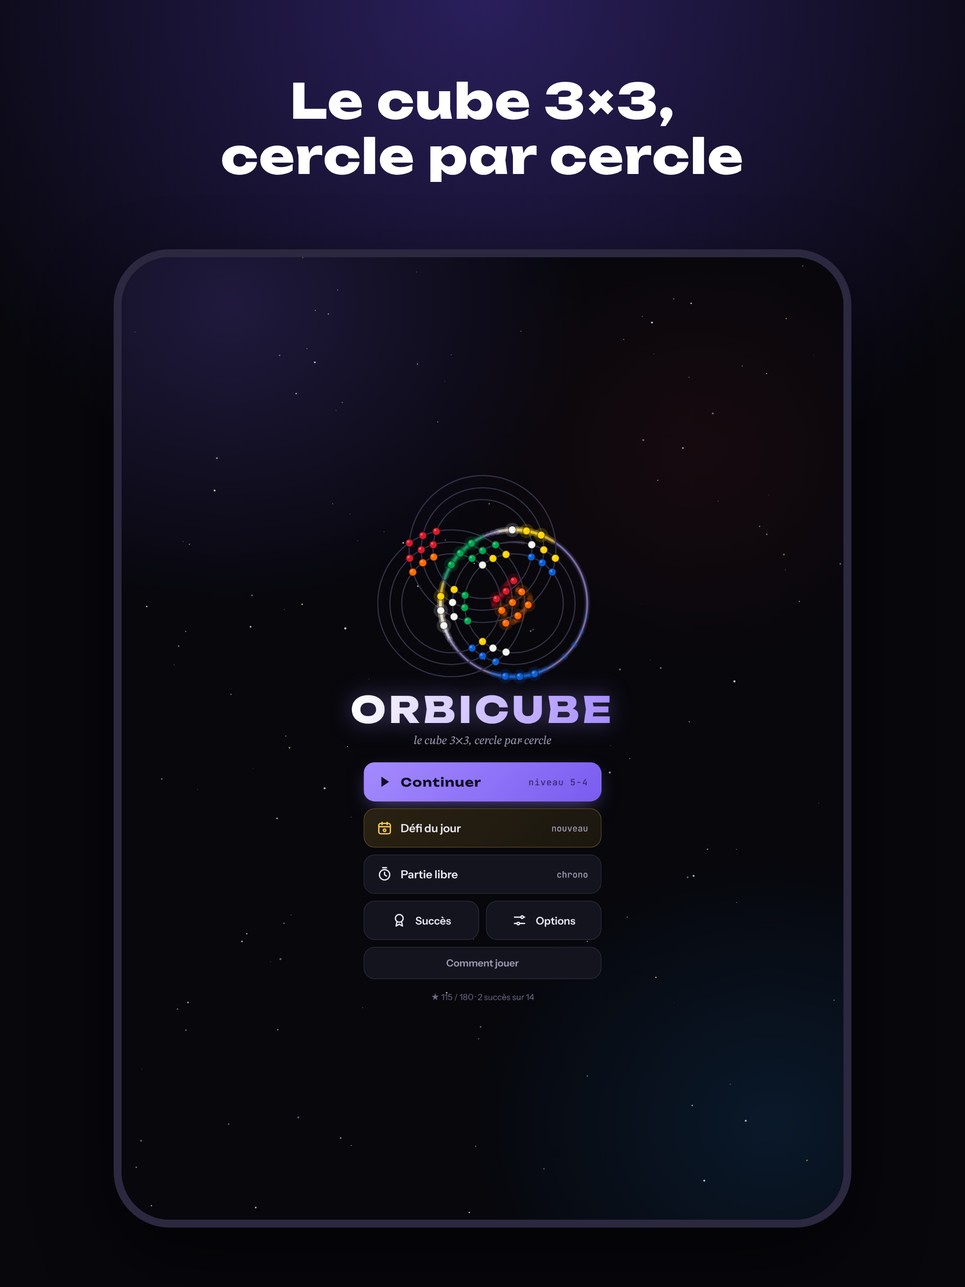
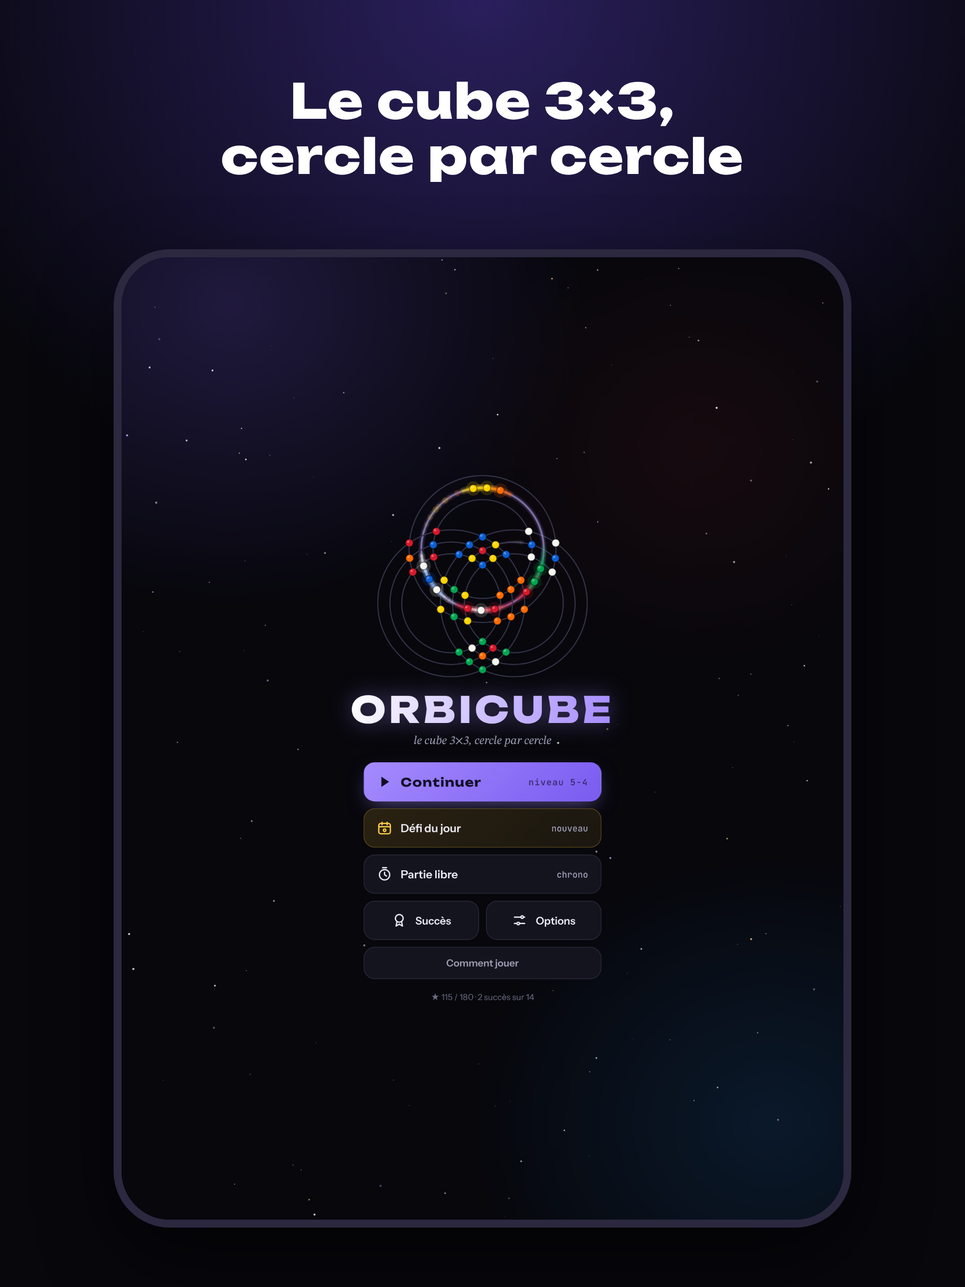
Seul le plateau se manipule, et seulement en glissant
Un simple appui sur un cercle le tournait d'un quart de tour, toujours dans le même sens : il ne
fait plus rien, le sens se choisit en glissant. L'option « Toucher : sens horaire » et son aide
disparaissent, le conseil du niveau 1-2 explique le glisser. Le cube en perspective redevient une
image fixe qui suit les tours. Le parcours de test vérifie qu'un appui ne compte aucun coup
(éprouvé : il échoue sur la version précédente).

Claude-Session: https://claude.ai/code/session_0149xvqQAFsWoXJkF64USQEK

Changed region(s): [[0.4341, 0.375, 0.6202, 0.5312]]

diff --git a/orbicube/www/index.html b/orbicube/www/index.html
@@ -162,7 +162,7 @@ a.bouton{text-decoration:none;color:inherit}
 /* le cube en perspective trône au centre, entre les coups et le temps, comme dans la visualisation de
    référence : sa taille (--cube) est la hauteur que le plateau laisse, calculée par redimJeu() */
 .jcube{display:grid;justify-items:center;gap:0;min-width:0;padding-top:14px}
-#mini{width:var(--cube,96px);height:var(--cube,96px);display:block;cursor:grab;touch-action:none}#mini:active{cursor:grabbing}
+#mini{width:var(--cube,96px);height:var(--cube,96px);display:block;pointer-events:none}
 .jinfo .stat{align-self:start;padding-top:6px}.jinfo .jetoiles{margin-top:8px}.jinfo .jetoiles svg{width:18px;height:18px}
 .coupgeant{position:absolute;right:14px;top:4px;font-family:var(--f-math);font-size:44px;color:var(--lilas);line-height:1;pointer-events:none;text-shadow:0 0 24px rgba(165,139,255,.5)}
 .fenetre{animation:pop .45s cubic-bezier(.3,1.4,.5,1)!important}
@@ -344,7 +344,7 @@ a.bouton{text-decoration:none;color:inherit}
     </div>
     <div class="jinfo">
       <div class="stat">Coups<b id="jCoups">0</b><div class="jetoiles" id="jEt" aria-label="Étoiles possibles"></div></div>
-      <div class="jcube"><canvas id="mini" aria-label="Cube en perspective, glissez pour le faire pivoter"></canvas></div>
+      <div class="jcube"><canvas id="mini" aria-label="Cube en perspective"></canvas></div>
       <div class="stat d">Temps<b id="jTemps">0:00</b></div>
     </div>
     <div class="plateau" id="zonePlateau">
@@ -385,12 +385,10 @@ a.bouton{text-decoration:none;color:inherit}
           <div class="segment" id="optVitesse"><button type="button" data-v="1.5">Lente</button><button type="button" data-v="1">Normale</button><button type="button" data-v="0.6">Rapide</button></div></div>
         <div class="ligne empile"><div class="lt"><b>Couleurs</b><span>« Contraste » suit une palette lisible par les daltoniens.</span></div>
           <div class="segment" id="optPalette"><button type="button" data-v="classique">Classique</button><button type="button" data-v="contraste">Contraste</button></div></div>
-        <div class="ligne"><div class="lt"><b>Cube en perspective</b><span>Au-dessus du plateau : glissez-le pour le faire pivoter.</span></div>
+        <div class="ligne"><div class="lt"><b>Cube en perspective</b><span>Au-dessus du plateau, il suit chaque tour.</span></div>
           <label class="interrupteur"><input type="checkbox" id="optCube" role="switch" aria-label="Cube en perspective"><i></i></label></div>
         <div class="ligne"><div class="lt"><b>Pavé de notation</b><span>Des boutons U, R′… sous le plateau.</span></div>
           <label class="interrupteur"><input type="checkbox" id="optPave" role="switch" aria-label="Pavé de notation"><i></i></label></div>
-        <div class="ligne"><div class="lt"><b>Toucher : sens horaire</b><span>Un toucher sans glisser tourne dans le sens des aiguilles. Désactivé : sens inverse.</span></div>
-          <label class="interrupteur"><input type="checkbox" id="optSens" role="switch" aria-label="Toucher dans le sens horaire"><i></i></label></div>
       </div>
       <div class="groupe" id="grpAchat"><h4>Achat</h4>
         <div class="ligne"><div class="lt"><b>Orbicube complet</b><span id="achatEtat">Les 6 mondes, toute la partie libre.</span></div>
@@ -438,8 +436,6 @@ a.bouton{text-decoration:none;color:inherit}
       <div class="aide-carte">
         <h3>Les gestes</h3>
         <p data-html="aide-glisser"><b>Glisser</b> le long d’un cercle le tourne dans le sens du doigt. Lâchez tôt et il revient en place.</p>
-        <p data-html="aide-toucher"><b>Toucher</b> un cercle le tourne d’un quart de tour, dans le sens horaire (réglable dans les options).</p>
-        <p data-html="aide-vue"><b>Glisser le cube</b> au-dessus du plateau le fait pivoter : à gauche ou à droite pour en faire le tour, vers le haut ou le bas pour voir la face du dessous.</p>
       </div>
       <div class="aide-carte">
         <h3>Gagner des étoiles</h3>
@@ -789,7 +785,7 @@ function ouvrirMonde(w){var M=MONDES[w];document.getElementById("nivTitre").text
 /* ========== 11. LA PARTIE ========== */
 var JeuP=new Plateau(document.getElementById("plateau"),{eclats:true});Ticker.actifs.push(JeuP);
 JeuP.onFace=function(n){if(!J||!J.pret||J.fini)return;bip(1047,.28,"sine",.07);bip(1568,.32,"sine",.05,.07);vibrer(12);};
-var mini=document.getElementById("mini"),miniC=mini.getContext("2d"),PIVOT={y:0,x:0},J=null;
+var mini=document.getElementById("mini"),miniC=mini.getContext("2d"),PIVOT=null,J=null;
 function dessinerMini(){if(!PROG.options.cube)return;var w=mini.clientWidth||84,px=Math.round(w*DPR);if(mini.width!==px){mini.width=px;mini.height=px;miniC.setTransform(DPR,0,0,DPR,0,0);}
   dessinerCube(miniC,w,JeuP.col,JeuP.anim,PIVOT);}
 JeuP.apres=function(){dessinerMini();if(J&&J.t0&&!J.fini&&!J.enPause)document.getElementById("jTemps").textContent=fmt(performance.now()-J.t0);};
@@ -881,12 +877,11 @@ function pause(){if(!J||!document.getElementById("voile").hidden)return;var t=J.
       if(a==="recommencer")recommencer();else if(a==="niveaux")ouvrirMonde(J.def.w);else if(a==="accueil")montrer("accueil");},"reprendre");}
 
 var TUTOS={"1-1":["geste","Glissez le long du cercle qui brille, dans le sens de la flèche, pour remettre le cube en ordre."],
-  "1-2":["toucher","Touchez un cercle pour le tourner d’un quart de tour dans le sens horaire. Glisser permet de choisir le sens."],
+  "1-2":["toucher","Glissez dans un sens ou dans l’autre : le cercle suit votre doigt et ne compte qu’au lâcher."],
   "1-3":["pastille","Chaque pastille est au croisement de deux cercles. Un tour déplace douze pastilles, et les neuf de la face pivotent sur place."],
   "1-5":["indice","Bloqué ? L’ampoule en haut à droite montre le tour suivant, mais limite le niveau à deux étoiles."],
-  "2-1":["vue","Le cube au-dessus du plateau se fait pivoter au doigt : glissez-le pour voir les faces cachées."],
   "3-1":["tranche","Les cercles du milieu sont les tranches M, E et S. Ils n’ont pas de face à eux : seules douze pastilles bougent."]};
-function tutoriel(){if(!J||J.def.mode!=="campagne")return;var t=TUTOS[J.def.id];if(!t||PROG.tips[t[0]]||(t[0]==="vue"&&!PROG.options.cube))return;
+function tutoriel(){if(!J||J.def.mode!=="campagne")return;var t=TUTOS[J.def.id];if(!t||PROG.tips[t[0]])return;
   var b=document.getElementById("bulle");document.getElementById("bulleTxt").textContent=t[1];b.dataset.tip=t[0];b.hidden=false;if(t[0]==="geste")indice(true);}
 function cacherBulle(sansNoter){var b=document.getElementById("bulle");if(!b.hidden&&b.dataset.tip&&!sansNoter){PROG.tips[b.dataset.tip]=1;sauver();}b.hidden=true;}
 document.getElementById("bulleOk").addEventListener("click",function(){sonClic();cacherBulle();});
@@ -915,7 +910,8 @@ cvJ.addEventListener("pointermove",function(e){var p=pt(e);
   if(Math.abs(prog)>=.5&&!G.cran){G.cran=true;vibrer(6);bip(520,.03,"sine",.03);}else if(Math.abs(prog)<.4)G.cran=false;
   JeuP.anim={mv:{a:G.choisi.a,L:G.choisi.L,q:q},t:Math.abs(prog),libre:true};JeuP.indice=null;JeuP.dessiner();dessinerMini();});
 function lacher(){if(!G)return;var g=G;G=null;JeuP.survol=null;
-  if(!g.choisi){var c=g.cand[0];jouerCoup({a:c.a,L:c.L,q:qPourSens(c.a,PROG.options.horaire?-1:1)});return;}
+  // un simple appui ne tourne rien (le client, le 11/10/2026) : le sens se choisit en glissant
+  if(!g.choisi)return;
   var an=JeuP.anim;if(!an||!an.libre){finirGeste(g,g.net);Ticker.reveiller();return;}
   // vitesse du doigt sur les 110 dernières ms, en quarts de tour par seconde, dans le sens du tour en cours
   var tr=g.trace,v=0;if(tr.length>1){var dt=tr[tr.length-1][0]-tr[0][0];if(dt>0)v=(tr[tr.length-1][1]-tr[0][1])/dt*1000/PAS[g.choisi.a][g.choisi.L+1];}
@@ -929,26 +925,7 @@ function finirGeste(g,net){var n=((net%4)+4)%4;if(!J||J.fini)return;if(!n){majJe
   var mv={a:g.choisi.a,L:g.choisi.L,q:n===3?-1:1};if(n===2)mv.d=2;apresCoup(mv);}
 cvJ.addEventListener("pointerup",lacher);cvJ.addEventListener("pointercancel",lacher);
 cvJ.addEventListener("pointerleave",function(){if(!G&&JeuP.survol){JeuP.survol=null;JeuP.dessiner();}});
-cvJ.addEventListener("contextmenu",function(e){e.preventDefault();if(!J||!J.pret)return;var p=pt(e),c=JeuP.anneauxSous(p[0],p[1]);
-  if(c.length)jouerCoup({a:c[0].a,L:c[0].L,q:qPourSens(c[0].a,PROG.options.horaire?1:-1)});});
-// Le cube pivote au doigt : glisser à gauche ou à droite le fait tourner autour de la verticale, vers le
-// haut ou le bas le bascule pour montrer la face du dessous. Au lâcher, il se cale sur la vue la plus
-// proche (un quart de tour, ou retourné). Un simple appui ne fait rien : il ne tournait que dans un sens.
-(function(){var g=null,anim=0,attente=false;
-  function redessiner(){if(attente)return;attente=true;requestAnimationFrame(function(){attente=false;dessinerMini();});}
-  function norm(a){a%=2*Math.PI;return a<0?a+2*Math.PI:a;}
-  function caler(){var y0=PIVOT.y,x0=PIVOT.x,y1=Math.round(y0/(Math.PI/2))*Math.PI/2,x1=Math.round(x0/Math.PI)*Math.PI,t0=performance.now(),n=++anim;
-    (function pas(now){if(n!==anim)return;var k=Math.min(1,(now-t0)/260),e=ease(k);PIVOT={y:y0+(y1-y0)*e,x:x0+(x1-x0)*e};dessinerMini();
-      if(k<1)requestAnimationFrame(pas);else PIVOT={y:norm(y1),x:norm(x1)};})(t0);}
-  mini.addEventListener("pointerdown",function(e){if(e.button)return;anim++;g={x:e.clientX,y:e.clientY,bouge:false};try{mini.setPointerCapture(e.pointerId);}catch(_){}});
-  mini.addEventListener("pointermove",function(e){if(!g)return;if(e.pointerType==="mouse"&&!e.buttons){lacher();return;}
-    var dx=e.clientX-g.x,dy=e.clientY-g.y;if(!g.bouge){if(Math.hypot(dx,dy)<4)return;g.bouge=true;vibrer(6);}
-    // pas à pas : le sens horizontal suit la bascule du moment (retourné, la droite devient la gauche)
-    var k=(Math.PI/2)/(0.9*Math.max(60,mini.clientWidth)),sens=Math.cos(PIVOT.x)<0?-1:1;
-    PIVOT={y:PIVOT.y+sens*dx*k,x:PIVOT.x-dy*k};g.x=e.clientX;g.y=e.clientY;redessiner();});
-  function lacher(){if(!g)return;var b=g.bouge;g=null;if(!b)return;caler();
-    if(!PROG.tips.vue){PROG.tips.vue=1;sauver();}var bu=document.getElementById("bulle");if(!bu.hidden&&bu.dataset.tip==="vue")cacherBulle();}
-  mini.addEventListener("pointerup",lacher);mini.addEventListener("pointercancel",lacher);})();
+cvJ.addEventListener("contextmenu",function(e){e.preventDefault();});
 
 document.getElementById("btnPause").addEventListener("click",function(){sonClic();pause();});
 document.getElementById("btnIndice").addEventListener("click",function(){sonClic();if(!J||!J.pret||J.fini)return;
@@ -1025,14 +1002,14 @@ function rafraichirSucces(){document.getElementById("sucCompte").textContent=Obj
 /* ========== 14. OPTIONS ========== */
 function appliquerOptions(){var o=PROG.options;COUL=PALETTES[o.palette]||PALETTES.classique;
   document.getElementById("optSon").checked=o.son;document.getElementById("optVib").checked=o.vib;document.getElementById("optCube").checked=o.cube;
-  document.getElementById("optPave").checked=o.pave;document.getElementById("optSens").checked=o.horaire;
+  document.getElementById("optPave").checked=o.pave;
   document.querySelectorAll("#optVitesse button").forEach(function(b){b.classList.toggle("on",+b.dataset.v===o.vitesse);});
   document.querySelectorAll("#optPalette button").forEach(function(b){b.classList.toggle("on",b.dataset.v===o.palette);});
   mini.hidden=!o.cube;document.getElementById("pave").hidden=!o.pave;
   document.getElementById("btnPaveT").classList.toggle("on",o.pave);
   if(ECRAN==="jeu")requestAnimationFrame(redimJeu);Logo.dessiner();JeuP.dessiner();dessinerMini();}
 function opt(k,v){PROG.options[k]=v;PROG.options.maj=Date.now();sauver();appliquerOptions();}
-[["Son","son"],["Vib","vib"],["Cube","cube"],["Pave","pave"],["Sens","horaire"]].forEach(function(c){
+[["Son","son"],["Vib","vib"],["Cube","cube"],["Pave","pave"]].forEach(function(c){
   document.getElementById("opt"+c[0]).addEventListener("change",function(){opt(c[1],this.checked);if(c[1]==="son"&&this.checked)sonClic();if(c[1]==="vib")vibrer(15);});});
 document.getElementById("optVitesse").addEventListener("click",function(e){var b=e.target.closest("button");if(b){opt("vitesse",+b.dataset.v);sonClic();}});
 document.getElementById("optPalette").addEventListener("click",function(e){var b=e.target.closest("button");if(b){opt("palette",b.dataset.v);sonClic();}});

diff --git a/orbicube/www/langues.js b/orbicube/www/langues.js
@@ -62,7 +62,6 @@
     ["Par", "Par", "Par", "Par", "Par"],
     ["Étoiles possibles", "Stars still possible", "Nog mogelijke sterren", "Noch mögliche Sterne", "Estrellas posibles"],
     ["Plateau de cercles", "Board of circles", "Bord met cirkels", "Kreisbrett", "Tablero de círculos"],
-    ["Cube en perspective, glissez pour le faire pivoter", "3D cube, swipe to turn it around", "3D-kubus, veeg om hem te draaien", "3D-Würfel, wischen zum Drehen", "Cubo en 3D, desliza para girarlo"],
     ["MÉLANGE…", "SCRAMBLING…", "HUSSELEN…", "MISCHEN…", "MEZCLANDO…"],
     ["Glissez le long d’un cercle", "Slide along a circle", "Veeg langs een cirkel", "Wische an einem Kreis entlang", "Desliza por un círculo"],
     ["Compris", "Got it", "Begrepen", "Verstanden", "Entendido"],
@@ -72,10 +71,9 @@
     ["Tour {0}", "Turn {0}", "Draai {0}", "Drehung {0}", "Giro {0}"],
     ["Tour {0} inverse", "Turn {0} reversed", "Draai {0} omgekeerd", "Drehung {0} umgekehrt", "Giro {0} inverso"],
     ["Glissez le long du cercle qui brille, dans le sens de la flèche, pour remettre le cube en ordre.", "Slide along the glowing circle, in the direction of the arrow, to put the cube back in order.", "Veeg langs de oplichtende cirkel, in de richting van de pijl, om de kubus weer op orde te brengen.", "Wische am leuchtenden Kreis entlang, in Pfeilrichtung, um den Würfel wieder zu ordnen.", "Desliza por el círculo que brilla, en el sentido de la flecha, para ordenar el cubo."],
-    ["Touchez un cercle pour le tourner d’un quart de tour dans le sens horaire. Glisser permet de choisir le sens.", "Tap a circle to turn it a quarter turn clockwise. Sliding lets you choose the direction.", "Tik op een cirkel om hem een kwartslag met de klok mee te draaien. Door te vegen kies je de richting.", "Tippe auf einen Kreis, um ihn eine Vierteldrehung im Uhrzeigersinn zu drehen. Durch Wischen wählst du die Richtung.", "Toca un círculo para girarlo un cuarto de vuelta en sentido horario. Deslizando eliges el sentido."],
+    ["Glissez dans un sens ou dans l’autre : le cercle suit votre doigt et ne compte qu’au lâcher.", "Slide one way or the other: the circle follows your finger and only counts when you let go.", "Veeg de ene of de andere kant op: de cirkel volgt je vinger en telt pas als je loslaat.", "Wische in die eine oder andere Richtung: Der Kreis folgt deinem Finger und zählt erst beim Loslassen.", "Desliza hacia un lado o hacia el otro: el círculo sigue tu dedo y solo cuenta al soltar."],
     ["Chaque pastille est au croisement de deux cercles. Un tour déplace douze pastilles, et les neuf de la face pivotent sur place.", "Each dot sits where two circles cross. A turn moves twelve dots, and the nine on the face spin in place.", "Elk bolletje ligt op het kruispunt van twee cirkels. Een draai verplaatst twaalf bolletjes, en de negen van het vlak draaien ter plekke.", "Jeder Punkt liegt dort, wo sich zwei Kreise kreuzen. Eine Drehung bewegt zwölf Punkte, und die neun der Seite drehen sich an Ort und Stelle.", "Cada bolita está en el cruce de dos círculos. Un giro mueve doce bolitas, y las nueve de la cara giran en su sitio."],
     ["Bloqué ? L’ampoule en haut à droite montre le tour suivant, mais limite le niveau à deux étoiles.", "Stuck? The bulb at the top right shows the next turn, but limits the level to two stars.", "Vast? Het lampje rechtsboven toont de volgende draai, maar beperkt het level tot twee sterren.", "Festgefahren? Die Glühbirne oben rechts zeigt die nächste Drehung, begrenzt das Level aber auf zwei Sterne.", "¿Atascado? La bombilla de arriba a la derecha muestra el siguiente giro, pero limita el nivel a dos estrellas."],
-    ["Le cube au-dessus du plateau se fait pivoter au doigt : glissez-le pour voir les faces cachées.", "The cube above the board turns under your finger: swipe it to see the hidden faces.", "De kubus boven het bord draai je met je vinger: veeg om de verborgen kanten te zien.", "Den Würfel über dem Brett drehst du mit dem Finger: wische, um die verdeckten Seiten zu sehen.", "El cubo sobre el tablero gira con el dedo: deslízalo para ver las caras ocultas."],
     ["Les cercles du milieu sont les tranches M, E et S. Ils n’ont pas de face à eux : seules douze pastilles bougent.", "The middle circles are the M, E and S slices. They have no face of their own: only twelve dots move.", "De middelste cirkels zijn de plakken M, E en S. Ze hebben geen eigen vlak: alleen twaalf bolletjes bewegen.", "Die mittleren Kreise sind die Scheiben M, E und S. Sie haben keine eigene Seite: Nur zwölf Punkte bewegen sich.", "Los círculos centrales son las capas M, E y S. No tienen cara propia: solo se mueven doce bolitas."],
     ["Un indice ?", "Need a hint?", "Een hint?", "Ein Tipp?", "¿Una pista?"],
     ["Le tour suivant s’affichera sur le plateau, mais ce niveau ne pourra plus donner que deux étoiles.", "The next turn will be shown on the board, but this level can then give two stars at most.", "De volgende draai verschijnt op het bord, maar dit level levert dan nog maximaal twee sterren op.", "Die nächste Drehung wird auf dem Brett gezeigt, aber dieses Level bringt dann höchstens zwei Sterne.", "El siguiente giro aparecerá en el tablero, pero este nivel solo podrá dar dos estrellas."],
@@ -149,12 +147,9 @@
     ["Classique", "Classic", "Klassiek", "Klassisch", "Clásica"],
     ["Contraste", "Contrast", "Contrast", "Kontrast", "Contraste"],
     ["Cube en perspective", "3D cube", "3D-kubus", "3D-Würfel", "Cubo en 3D"],
-    ["Au-dessus du plateau : glissez-le pour le faire pivoter.", "Above the board: swipe it to turn it around.", "Boven het bord: veeg om hem te draaien.", "Über dem Brett: wischen, um ihn zu drehen.", "Encima del tablero: deslízalo para girarlo."],
+    ["Au-dessus du plateau, il suit chaque tour.", "Above the board, it follows every turn.", "Boven het bord; hij volgt elke draai.", "Über dem Brett; er folgt jeder Drehung.", "Encima del tablero, sigue cada giro."],
     ["Pavé de notation", "Notation keypad", "Notatieknoppen", "Notationstasten", "Teclado de notación"],
     ["Des boutons U, R′… sous le plateau.", "U, R′… buttons under the board.", "Knoppen U, R′… onder het bord.", "Tasten U, R′… unter dem Brett.", "Botones U, R′… bajo el tablero."],
-    ["Toucher : sens horaire", "Tap: clockwise", "Tikken: met de klok mee", "Tippen: im Uhrzeigersinn", "Tocar: sentido horario"],
-    ["Toucher dans le sens horaire", "Tap turns clockwise", "Tikken draait met de klok mee", "Tippen dreht im Uhrzeigersinn", "Tocar gira en sentido horario"],
-    ["Un toucher sans glisser tourne dans le sens des aiguilles. Désactivé : sens inverse.", "A tap without sliding turns clockwise. Off: counter-clockwise.", "Tikken zonder vegen draait met de klok mee. Uit: tegen de klok in.", "Tippen ohne Wischen dreht im Uhrzeigersinn. Aus: gegen den Uhrzeigersinn.", "Tocar sin deslizar gira en sentido horario. Desactivado: sentido antihorario."],
     ["Les 6 mondes, toute la partie libre.", "All 6 worlds and all of free play.", "De 6 werelden en heel vrij spel.", "Alle 6 Welten und das ganze freie Spiel.", "Los 6 mundos y todo el juego libre."],
     ["Les 6 mondes, toute la partie libre · {0}.", "All 6 worlds and all of free play · {0}.", "De 6 werelden en heel vrij spel · {0}.", "Alle 6 Welten und das ganze freie Spiel · {0}.", "Los 6 mundos y todo el juego libre · {0}."],
     ["Débloqué. Merci pour votre soutien !", "Unlocked. Thank you for your support!", "Ontgrendeld. Bedankt voor je steun!", "Freigeschaltet. Danke für deine Unterstützung!", "Desbloqueado. ¡Gracias por tu apoyo!"],
@@ -232,16 +227,6 @@
       '<b>Veeg</b> langs een cirkel om hem in de richting van je vinger te draaien. Laat je vroeg los, dan veert hij terug.',
       '<b>Wische</b> an einem Kreis entlang, um ihn in Fingerrichtung zu drehen. Lässt du früh los, springt er zurück.',
       '<b>Desliza</b> por un círculo para girarlo en el sentido del dedo. Si sueltas pronto, vuelve a su sitio.'],
-    "aide-toucher": [
-      '<b>Tap</b> a circle to turn it a quarter turn clockwise (you can change this in the settings).',
-      '<b>Tik</b> op een cirkel om hem een kwartslag met de klok mee te draaien (aan te passen in de instellingen).',
-      '<b>Tippe</b> auf einen Kreis, um ihn eine Vierteldrehung im Uhrzeigersinn zu drehen (in den Einstellungen änderbar).',
-      '<b>Toca</b> un círculo para girarlo un cuarto de vuelta en sentido horario (se puede cambiar en los ajustes).'],
-    "aide-vue": [
-      '<b>Swipe the cube</b> above the board to turn it: left or right to go around it, up or down to see the bottom face.',
-      '<b>Veeg over de kubus</b> boven het bord om hem te draaien: links of rechts om eromheen te kijken, omhoog of omlaag voor de onderkant.',
-      '<b>Wische über den Würfel</b> über dem Brett, um ihn zu drehen: nach links oder rechts rundherum, nach oben oder unten für die Unterseite.',
-      '<b>Desliza el cubo</b> sobre el tablero para girarlo: a izquierda o derecha para rodearlo, arriba o abajo para ver la cara inferior.'],
     "aide-etoiles": [
       'A level is solved when every group of nine dots is a single colour. <b>Three stars</b> for no more moves than the scramble (the “par”), <b>two</b> up to twice that, <b>one</b> beyond. The bulb shows the next turn, but limits the level to two stars.',
       'Een level is opgelost als elke groep van negen bolletjes één kleur heeft. <b>Drie sterren</b> met niet meer zetten dan de husseling (de „par”), <b>twee</b> tot het dubbele, <b>één</b> daarboven. Het lampje toont de volgende draai, maar beperkt het level tot twee sterren.',

diff --git a/orbicube/outils/tester.js b/orbicube/outils/tester.js
@@ -130,6 +130,8 @@ async function resoudre(p) {
     (await coups()) === "1" && /^U2$/.test(nota) ? ok("un demi-tour en un geste compte un coup, noté U2") : faute("demi-tour : " + (await coups()) + " coup(s), notation « " + nota + " »");
     await p.click("#btnAnnuler"); await p.waitForTimeout(900);
     (await coups()) === "0" ? ok("« Annuler » défait le demi-tour en entier") : faute("annuler le demi-tour laisse " + (await coups()) + " coup(s)");
+    await p.mouse.click(...pt(-Math.PI / 2)); await p.waitForTimeout(700);
+    (await coups()) === "0" ? ok("un simple appui sur un cercle ne tourne rien") : faute("un appui sur un cercle a joué " + (await coups()) + " coup(s)");
     await ctx.close();
   }
 

diff --git a/orbicube/www/sw.js b/orbicube/www/sw.js
@@ -1,6 +1,6 @@
 // Version web (PWA) : tout le jeu est mis en cache pour se jouer hors ligne.
 // Incrémenter V à chaque publication, sinon les joueurs gardent l'ancienne version.
-var V = "orbicube-v15";
+var V = "orbicube-v16";
 var FICHIERS = ["./", "index.html", "config.js", "natif.js", "langues.js", "manifest.webmanifest", "confidentialite.html",
   "icones/favicon.png", "icones/apple-touch-icon.png", "icones/icon-192.png", "icones/icon-512.png", "icones/icon-maskable-512.png",
   "polices/polices.css", "polices/Unbounded-normal-700.woff2", "polices/Unbounded-normal-800.woff2",

diff --git a/CLAUDE.md b/CLAUDE.md
@@ -56,9 +56,9 @@ contresens). Un contrôle neuf s'éprouve de la même façon avant d'être cru.
   « l'endroit optimal ») : le plateau prend d'abord la largeur moins 14 px de chaque côté, et `redimJeu()` donne au cube la
   hauteur qui reste (`--cube`, de 64 à 150 px). Pas en filigrane : des couleurs derrière les pastilles
   se confondraient avec elles.
-- **Le cube pivote au doigt, jamais au simple appui** (le client, le 11/10/2026 : l'appui ne tournait
-  que dans un sens) : glisser à gauche/droite le fait tourner autour de la verticale, vers le haut/bas
-  le bascule (face du dessous) ; au lâcher il se cale au quart de tour près (`PIVOT`, `caler()`).
+- **Seul le plateau se manipule, et seulement en glissant** (le client, le 11/10/2026) : un simple appui
+  sur un cercle ne tourne rien (il ne tournait que dans un sens), et le cube en perspective est une
+  image fixe qui suit les tours (`pointer-events:none`). Le parcours de test vérifie l'appui à vide.
 - Les niveaux de campagne sont tirés d'une graine fixe (`orbicube-<monde>-<niveau>`) : changer
   `genererMelange()` change tous les niveaux des joueurs. Ne le faire qu'avec une nouvelle graine.
 - La progression est dans `localStorage` (clé `orbicube-v1`) et, sur téléphone, dans
@@ -75,6 +75,6 @@ contresens). Un contrôle neuf s'éprouve de la même façon avant d'être cru.
 - **Un geste vaut au plus un coup, compté au lâcher** (le client, le 11/10/2026) : pendant le
   glisser, les quarts de tour franchis sont posés sur le plateau mais pas comptés ; au lâcher,
   `finirGeste()` lit la rotation nette : 0 (aller-retour, tour complet) = aucun coup, un quart =
-  `U`/`U′`, un demi-tour = `U2`, un seul coup comme dans la notation du cube. Toucher, clavier et
-  pavé restent un quart de tour = un coup.
+  `U`/`U′`, un demi-tour = `U2`, un seul coup comme dans la notation du cube. Clavier et pavé
+  restent un quart de tour = un coup.
 - `?capture` dans l'adresse expose `window.__orbicube.solution()`, pour `outils/captures.js` seulement.
